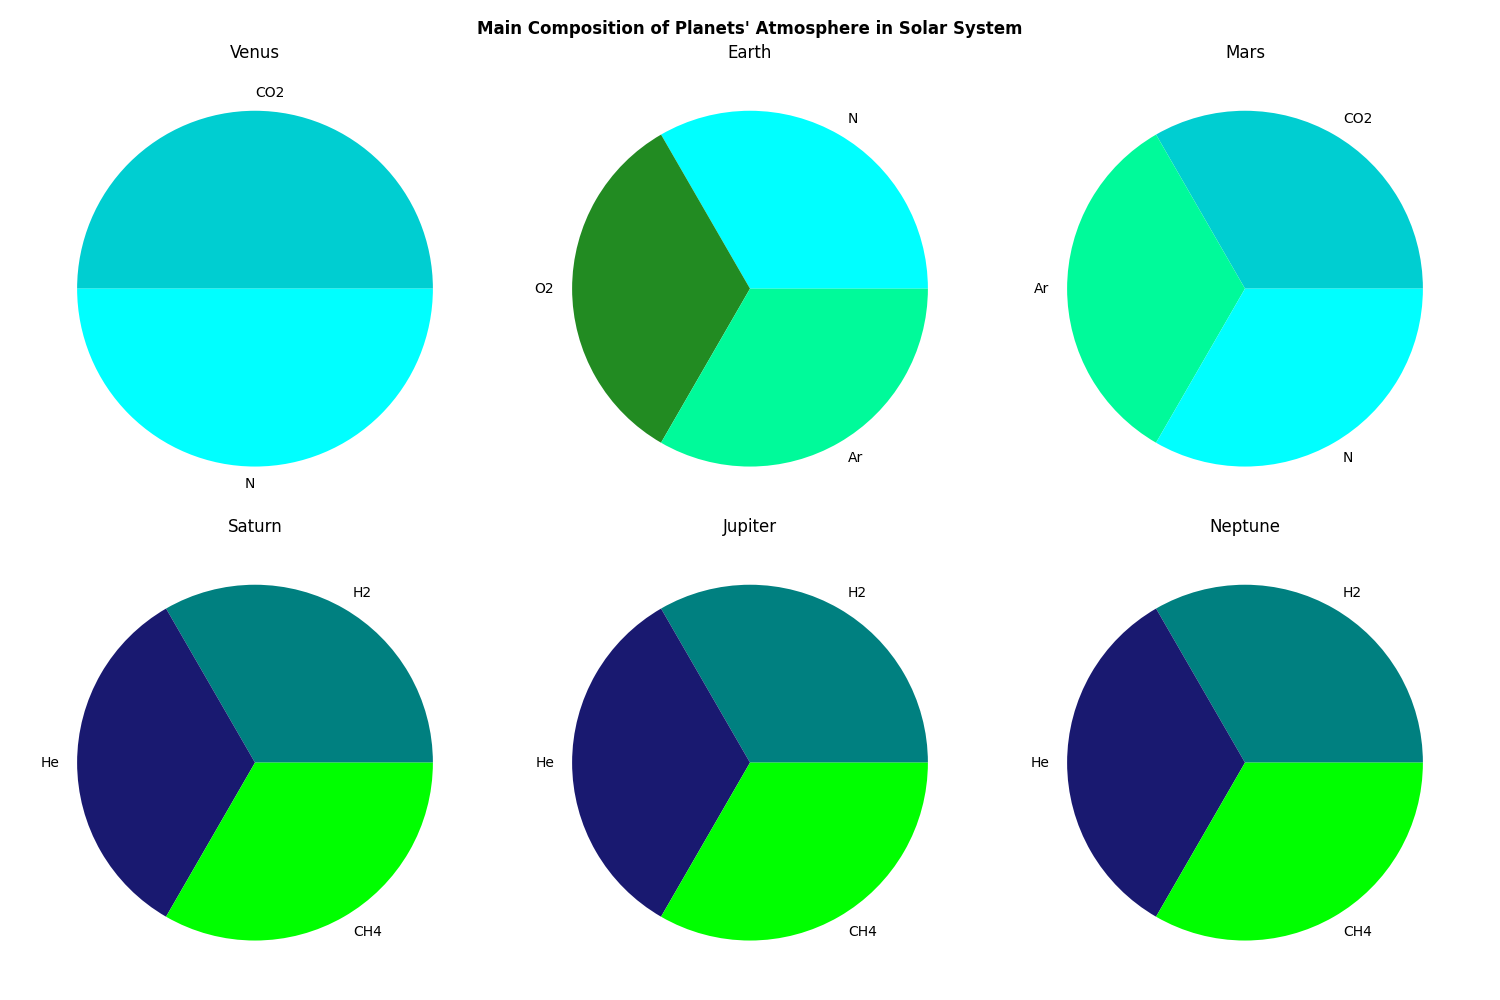
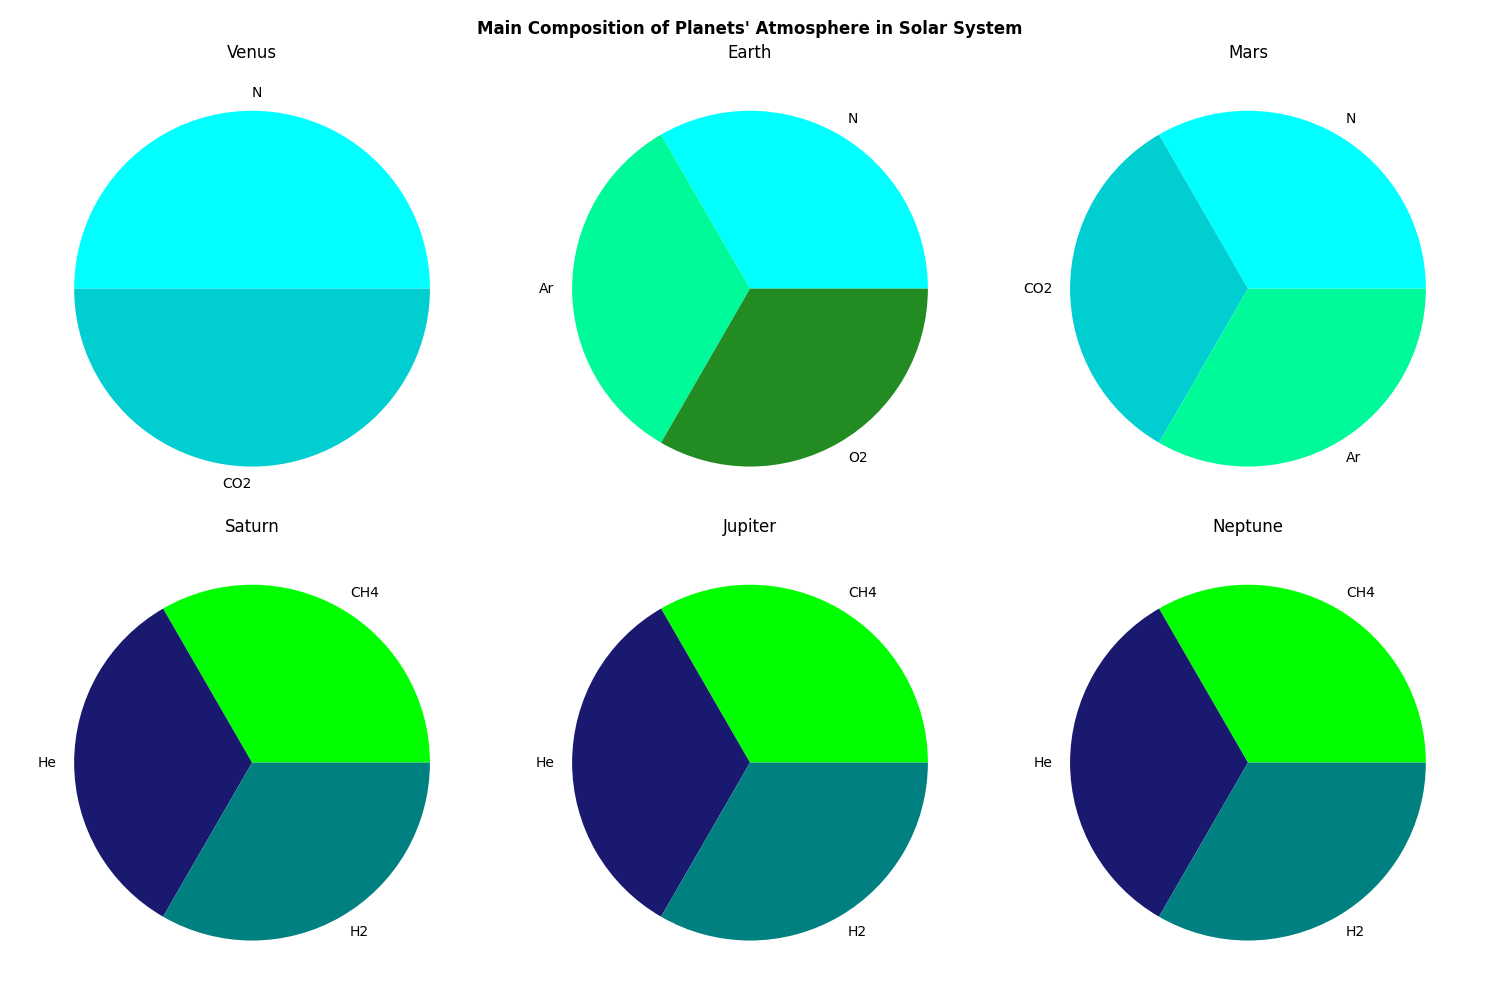
Before final graph

diff --git a/GradesGraph1.py b/GradesGraph1.py
@@ -1,50 +1,76 @@
+from pymongo import MongoClient
 import pandas as pd
 import matplotlib.pyplot as plt
 
-# Read the CSV file
-df = pd.read_csv('sample_training.grades.csv')
+# Connect to MongoDB
+client = MongoClient('mongodb://localhost:27017/')
+db = client['DatabaseLab4']  
+grades_collection = db['Grades']
 
-# dict to save results for each class_id
-class_result = {}
-
-# get class_ids
+# Class IDs
 class_ids = [149, 350]
 
+# Dictionary to save results for each class_id
+class_result = {}
+
+# Iterate over each class_id
 for class_id in class_ids:
-    class_data = df[df['class_id'] == class_id]
+    pipeline = [
+        {
+            '$match': {'class_id': class_id}
+        },
+        {
+            '$project': {
+                'class_id': 1,
+                'scores': 1
+            }
+        },
+        {
+            '$unwind': '$scores'
+        },
+        {
+            '$group': {
+                '_id': '$scores.type',
+                'avg_score': {'$avg': '$scores.score'}
+            }
+        }
+    ]
 
-    class_result[class_id] = []
+    result = list(grades_collection.aggregate(pipeline))
 
-    for index, row in class_data.iterrows():
-        for i in range(4):
-            score_type = row[f'scores[{i}].type']
-            score_value = row[f'scores[{i}].score']
-            class_result[class_id].append({'_id': score_type, 'avg_score': score_value})
-
-    class_result[class_id] = pd.DataFrame(class_result[class_id])
-
-    # Get avg score by class_id
-    class_result[class_id] = class_result[class_id].groupby('_id')['avg_score'].mean().reset_index()
+    # Convert to DataFrame
+    result_df = pd.DataFrame(result)
 
     # Add class_id field
-    class_result[class_id]['class_id'] = class_id
+    result_df['class_id'] = class_id
 
-# put colors for each bar
+    # Save the answer in class_result
+    class_result[class_id] = result_df
+
+# Define colors for each evaluation type
 color_dict = {
-    'homework': 'lightgreen',
     'quiz': 'darkblue',
+    'homework': 'lightgreen',
     'exam': 'royalblue'
 }
 
-fig, axs = plt.subplots(1, len(class_ids), figsize=(12, 6))
+# Create subplots
+fig, axs = plt.subplots(1, len(class_ids), figsize=(16, 3))
 
+# bar graphs for each class_id
 for i, class_id in enumerate(class_ids):
-    # Set colors on the bars
-    colors = [color_dict.get(evaluation_type, 'skyblue') for evaluation_type in class_result[class_id]['_id']]
-    axs[i].barh(class_result[class_id]['_id'], class_result[class_id]['avg_score'], color=colors)
+    result_df = class_result[class_id].sort_values(by='_id', key=lambda x: x.map({'quiz': 0, 'homework': 1, 'exam': 2}))
+
+    colors = [color_dict.get(evaluation_type, 'skyblue') for evaluation_type in result_df['_id']]
+
+    # reducing spaces between bars
+    axs[i].barh(result_df['_id'], result_df['avg_score'], color=colors, align='edge', height=0.5, edgecolor='black', linewidth=0.5)
     axs[i].set_title(f'Class ID {class_id}')
     axs[i].invert_yaxis()
+    
+    # Add the liens in x axises
+    axs[i].grid(axis='x', linestyle='--', color='blue')
 
 plt.tight_layout()
-plt.savefig('averageScoresClass.png')  # Save the plot as PNG
+plt.savefig('averageScoresClass.png') 
 plt.show()

diff --git a/PlanetGraph2.py b/PlanetGraph2.py
@@ -1,59 +1,43 @@
 import pandas as pd
+from pymongo import MongoClient
 import matplotlib.pyplot as plt
 
-# Read CSV file
-df1 = pd.read_csv('sample_guides.planets.csv')
+# Connect to the database
+client = MongoClient('mongodb://localhost:27017/')
+db = client['DatabaseLab4']
+planets_collection = db['Planets']
 
-# Sort by sun then name
-df1_sorted = df1.sort_values(by=['orderFromSun', 'name'])
+# list of planets to make a pie graph for
+target_planets = ['Venus', 'Earth', 'Mars', 'Saturn', 'Jupiter', 'Neptune']
 
-# Replace _id with orderFromSun
-df1_sorted['_id'] = df1_sorted['orderFromSun']
+# colors for each atmosphere
+colors = {
+    'CO2': '#00CED1',
+    'N': '#00FFFF',
+    'Ar': '#00FA9A',
+    'O2': '#228B22',
+    'H2': '#008080',
+    'He': '#191970',
+    'CH4': '#00FF00'
+}
 
+fig, axes = plt.subplots(2, 3, figsize=(15, 10))
+fig.suptitle("Main Composition of Planets' Atmosphere in Solar System", fontweight='bold')
 
-df1_melted = df1_sorted.melt(id_vars=['orderFromSun', 'name'], value_vars=['mainAtmosphere[0]', 'mainAtmosphere[1]', 'mainAtmosphere[2]'], value_name='mainAtmosphere')
-
-df1_melted.drop(columns=['variable'], inplace=True)
-
-df1_melted = df1_melted[df1_melted['mainAtmosphere'].notna()]
-
-# Match mainAtmosphere to a color
-def map_color(mainAtmosphere):
-    colors = {
-        'CO2': '#00CED1',
-        'N': '#00FFFF',
-        'Ar': '#00FA9A',
-        'O2': '#228B22',
-        'H2': '#008080',
-        'He': '#191970',
-        'CH4': '#00FF00'
-    }
-    return colors.get(mainAtmosphere)
-
-# create color_values column 
-df1_melted['color_values'] = df1_melted['mainAtmosphere'].apply(map_color)
-
-# Read the second CSV file
-df2 = pd.read_csv('sample_guides.planets.csv')
-
-# Merge the two dataframes on 'name'
-merged_df = pd.merge(df1_melted, df2, on='name')
-
-# Create subplots for each planet
-plt.figure(figsize=(15, 10))
-plt.suptitle("Main Composition of Planets' Atmosphere in Solar System", fontweight='bold')
-
-for i, planet in enumerate(['Venus', 'Earth', 'Mars', 'Saturn', 'Jupiter', 'Neptune'], start=1):
-    plt.subplot(2, 3, i)
-    plt.title(planet)
+for i, planet in enumerate(target_planets):
+    planet_data = list(planets_collection.find({'name': planet}))
+    planet_data = planet_data[0]  
     
-    planet_data = merged_df[merged_df['name'] == planet]
+    main_atmosphere = planet_data['mainAtmosphere']
     
-    atmosphere_counts = planet_data['mainAtmosphere'].value_counts()
     
-    # Create pie chart
-    plt.pie(atmosphere_counts, labels=atmosphere_counts.index, colors=[map_color(x) for x in atmosphere_counts.index])
+    atmosphere_counts = {atmosphere: main_atmosphere.count(atmosphere) for atmosphere in set(main_atmosphere)}
+    
+    # Create a pie chart plaets
+    ax = axes[i // 3, i % 3]
+    ax.set_title(planet)
+    ax.pie(atmosphere_counts.values(), labels=atmosphere_counts.keys(), colors=[colors.get(atmosphere) for atmosphere in atmosphere_counts.keys()])
 
 plt.tight_layout()
-plt.savefig('mainCompositionofPlantsAtmosphereinSolorSystem.png')  # Save the plot as PNG
+plt.savefig('mainCompositionofPlantsAtmosphereinSolorSystem.png')  # Save the imgage as PNG
 plt.show()

diff --git a/PlanetGraph1.py b/PlanetGraph1.py
@@ -1,25 +1,69 @@
-import matplotlib.pyplot as plt
 import pandas as pd
 from pymongo import MongoClient
-import pymongo
+import matplotlib.pyplot as plt
 
-# Read the CSV file
-df = pd.read_csv('sample_guides.planets.csv')
+# Connect with the database
+client = MongoClient('mongodb://localhost:27017/')
+db = client['DatabaseLab4']
+planets_collection = db['Planets']
 
-# Sort the DF by 'orderFromSun'
-df.sort_values(by='orderFromSun', inplace=True)
+pipeline = [
+    {
+        '$project': {
+            '_id': 1,
+            'name': 1,
+            'orderFromSun': 1,
+            'minTemp': '$surfaceTemperatureC.min',
+            'maxTemp': '$surfaceTemperatureC.max',
+            'avgTemp': {
+                '$ifNull': [
+                    '$surfaceTemperatureC.mean',
+                    {
+                        '$cond': {
+                            'if': {
+                                '$and': [
+                                    {'$ne': ['$surfaceTemperatureC.min', None]},
+                                    {'$ne': ['$surfaceTemperatureC.max', None]}
+                                ]
+                            },
+                            'then': {
+                                '$divide': [
+                                    {'$add': ['$surfaceTemperatureC.min', '$surfaceTemperatureC.max']},
+                                    2
+                                ]
+                            },
+                            'else': None
+                        }
+                    }
+                ]
+            }
+        }
+    },
+    { 
+        '$sort': {'orderFromSun': 1}
+    }
+]
 
-# average surface temperature
+planets_data = list(planets_collection.aggregate(pipeline))
+
+# Replace unique _id
+for idx, planet in enumerate(planets_data):
+    planet['_id'] = idx + 1
+
+# Create DataFrame
+df = pd.DataFrame(planets_data, columns=['_id', 'name', 'minTemp', 'maxTemp', 'avgTemp'])
+
+# Plotting
 plt.figure(figsize=(10, 6))
-plt.plot(df['name'], df['surfaceTemperatureC.min'], color='blue', label='Min Temperature')
-plt.plot(df['name'], df['surfaceTemperatureC.max'], color='green', label='Max Temperature')
-plt.plot(df['name'], df['surfaceTemperatureC.mean'], color='orange', label='Avg Temperature')
+plt.plot(df['name'], df['minTemp'], color='blue', label='Min Temperature')
+plt.plot(df['name'], df['maxTemp'], color='green', label='Max Temperature')
+plt.plot(df['name'], df['avgTemp'], color='orange', label='Avg Temperature')
 plt.xlabel('Planet')
 plt.ylabel('Surface Temperature (°C)')
 plt.title('Surface Temperature of Planets')
 plt.xticks(rotation=45)
 plt.legend()
 plt.grid(True)
-plt.tight_layout()
-plt.savefig('surfaceTemperatureofPlanetsinSolorSystem.png')  # Save the result as PNG
+plt.tight_layout() # adjust size based on window adjusting
+plt.savefig('surfaceTemperatureofPlanetsinSolorSystem_linear.png')
 plt.show()

diff --git a/RestaurantGraph1.py b/RestaurantGraph1.py
@@ -1,32 +1,65 @@
+from pymongo import MongoClient
 import pandas as pd
 import matplotlib.pyplot as plt
 
-# Read CSV file
-df = pd.read_csv('sample_restaurants.restaurants.csv')
+# Connect to MongoDB
+client = MongoClient('mongodb://localhost:27017/')
+db = client['DatabaseLab4']  
+restaurants_collection = db['Restaurants']  
 
-# Create DF for Polish restaurants
-polish_restaurants = df[df['cuisine'] == 'Polish']
-polish_grouped = polish_restaurants.groupby('borough').size().reset_index(name='total')
+polish_pipeline = [
+    {
+        '$match': {'cuisine': 'Polish'}
+    },
+    {
+        '$group': {
+            '_id': '$borough',
+            'total': {'$sum': 1}
+        }
+    },
+    {
+        '$sort': {'total': 1}  
+    }
+]
 
-# Create DF for Italian restaurants
-italian_restaurants = df[df['cuisine'] == 'Italian']
-italian_grouped = italian_restaurants.groupby('borough').size().reset_index(name='total')
+italian_pipeline = [
+    {
+        '$match': {'cuisine': 'Italian'}
+    },
+    {
+        '$group': {
+            '_id': '$borough',
+            'total': {'$sum': 1}
+        }
+    },
+    {
+        '$sort': {'total': 1}  
+    }
+]
 
-# Sort Italian restaurants by total number
-italian_grouped = italian_grouped.sort_values(by='total', ascending=False)
+polish_results = list(restaurants_collection.aggregate(polish_pipeline))
+italian_results = list(restaurants_collection.aggregate(italian_pipeline))
 
-fig, axes = plt.subplots(nrows=1, ncols=2, figsize=(10, 6))
+# put the answers in DataFrames
+polish_df = pd.DataFrame(polish_results)
+italian_df = pd.DataFrame(italian_results)
+
+polish_df = polish_df[::-1]
+italian_df = italian_df[::-1]
+
+# Plot bar graphs
+fig, axes = plt.subplots(1, 2, figsize=(12, 6))
 
 # Polish cuisine
-axes[0].bar(polish_grouped['borough'], polish_grouped['total'], color='blue')
-axes[0].set_title('Polish')
-axes[0].tick_params(axis='x', rotation=45)
+axes[0].bar(polish_df['_id'], polish_df['total'], color='lightblue') 
+axes[0].set_title('Polishhg')
 
 # Italian cuisine
-axes[1].bar(italian_grouped['borough'], italian_grouped['total'], color='blue')
-axes[1].set_title('Italian')
+axes[1].bar(italian_df['_id'], italian_df['total'], color='lightblue') 
+axes[1].set_title('Italian ')
+
+axes[0].tick_params(axis='x', rotation=45)
 axes[1].tick_params(axis='x', rotation=45)
 
 plt.tight_layout()
-plt.savefig('boroughPerTypeofCuisine.png')  # Save the plot as PNG
 plt.show()
